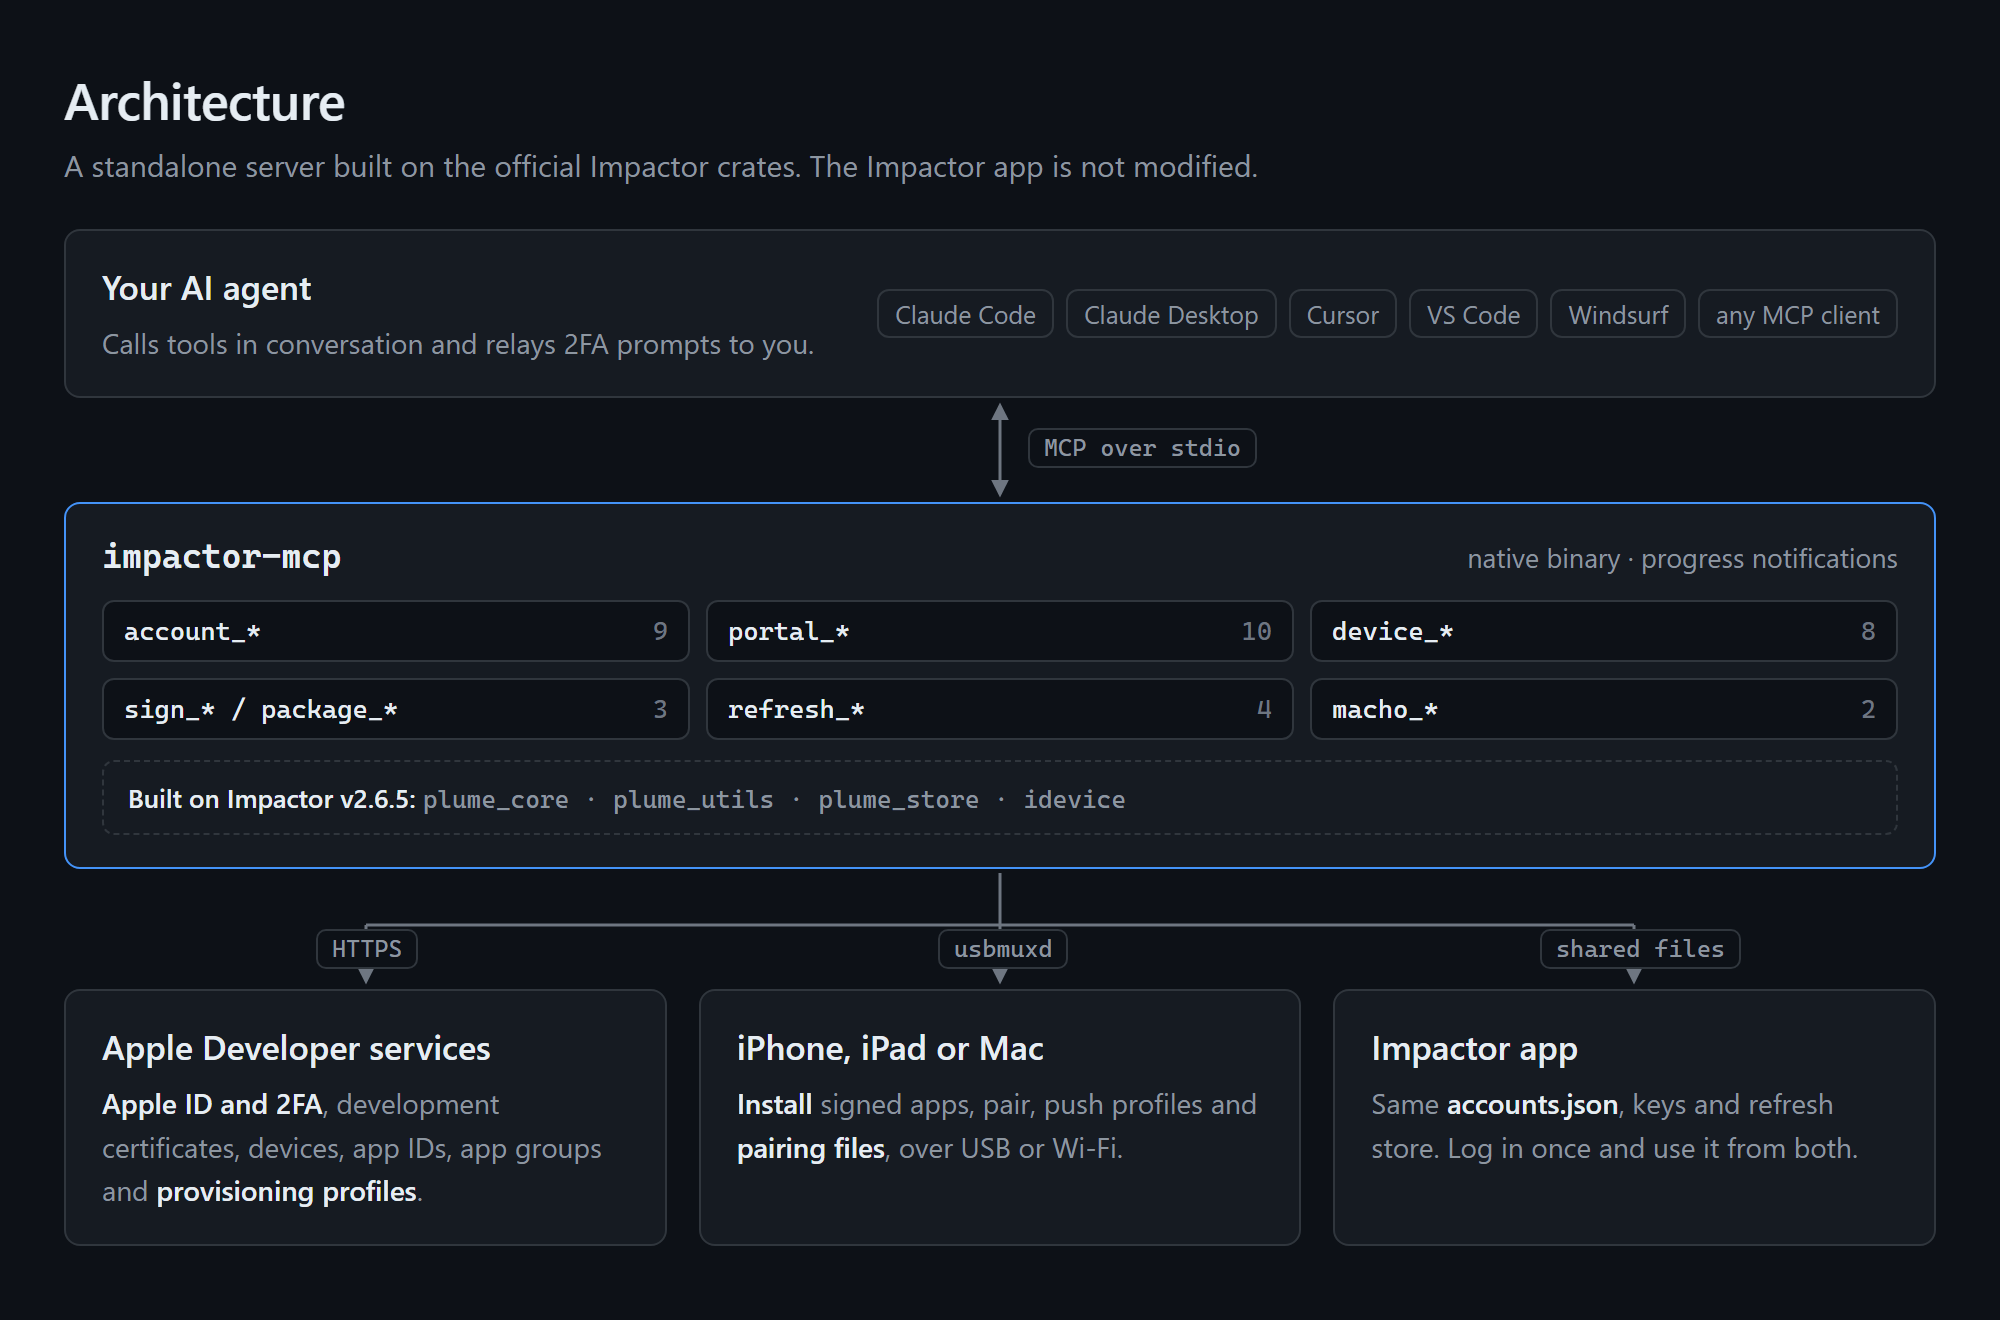
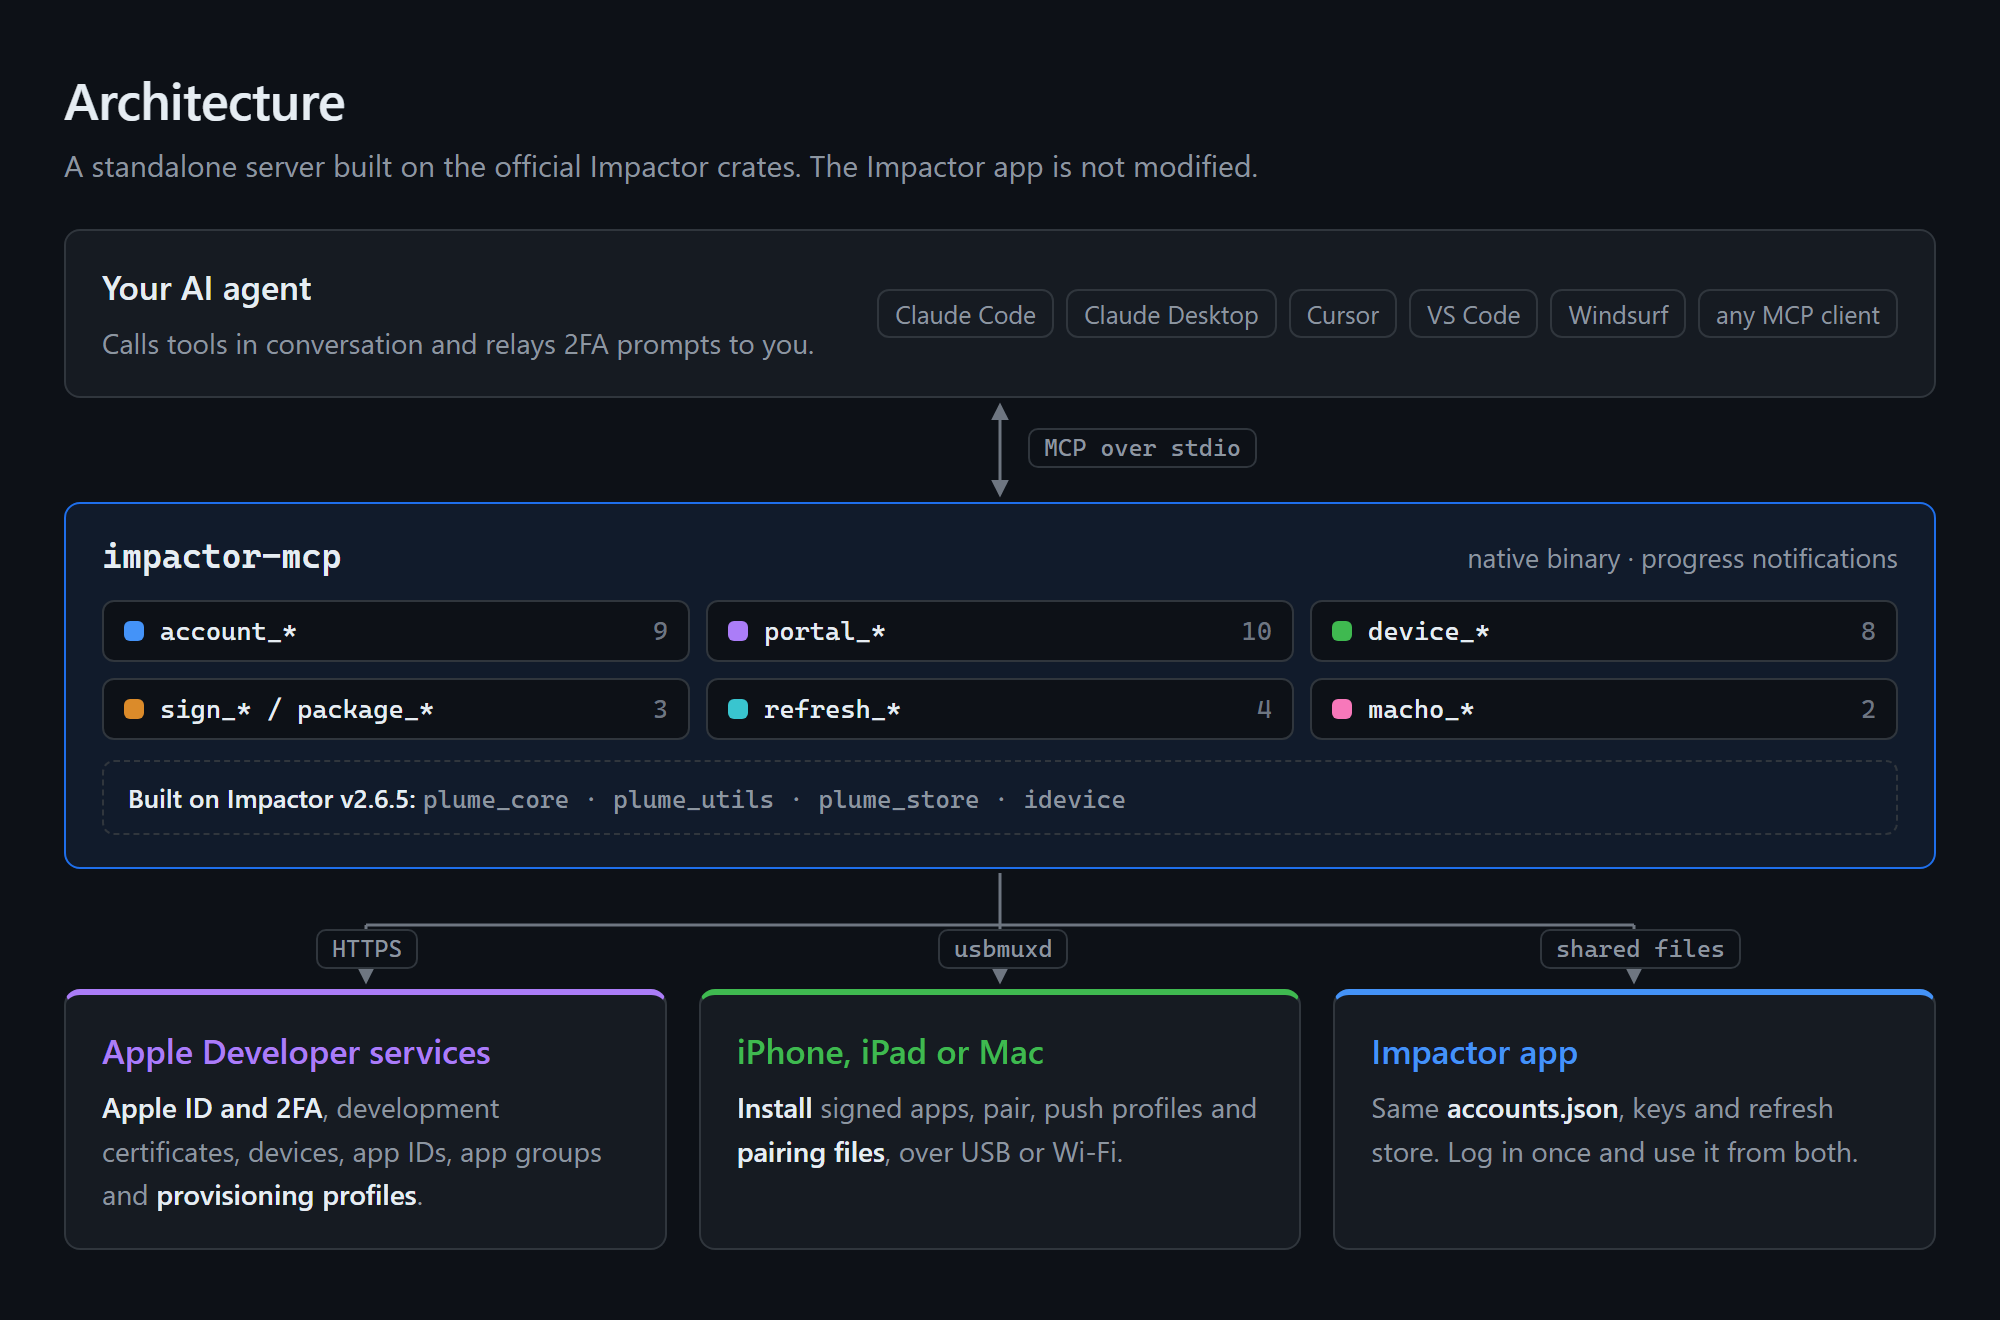
README images: macOS window chrome and per-group colors
- Hero session window gets macOS traffic lights and a centered title
- Each tool group has a flat color (Primer palette) used consistently
  across all images; no gradients

diff --git a/docs/readme/src/session.html b/docs/readme/src/session.html
@@ -13,12 +13,14 @@
   .step { padding: 14px 16px; }
   .left .step + .step { margin-top: 16px; }
   .head { display: flex; align-items: center; gap: 10px; margin-bottom: 10px; }
-  .num { width: 22px; height: 22px; border-radius: 5px; display: grid; place-items: center; font-size: 12px; border: 1px solid var(--border); color: var(--muted); font-family: var(--mono); }
+  .num { width: 22px; height: 22px; border-radius: 5px; display: grid; place-items: center; font-size: 12px; font-family: var(--mono); font-weight: 600; }
+  .head .name { color: var(--c); }
+  .card.step { border-top: 2px solid var(--c); }
   .head .name { font-family: var(--mono); font-size: 15px; }
   .head .desc { color: var(--faint); font-size: 13px; margin-left: auto; }
   pre { font-family: var(--mono); font-size: 12.5px; line-height: 1.6; color: var(--text); background: var(--inset); border: 1px solid var(--border); border-radius: 6px; padding: 10px 12px; white-space: pre; }
   .log div { font-family: var(--mono); font-size: 13px; line-height: 1.85; color: var(--text); display: flex; gap: 12px; }
-  .log .pct { color: var(--faint); width: 40px; text-align: right; }
+  .log .pct { color: #db8b2a; width: 40px; text-align: right; }
   .log .fin { color: var(--green); }
   .right .step { height: 100%; display: flex; flex-direction: column; }
   .right pre { flex: 1; }
@@ -34,24 +36,24 @@
 
   <div class="grid">
     <div class="left">
-      <div class="card step">
-        <div class="head"><div class="num">1</div><span class="name">device_list</span><span class="desc">find the device</span></div>
+      <div class="card step c-green">
+        <div class="head"><div class="num tint">1</div><span class="name">device_list</span><span class="desc">find the device</span></div>
 <pre>{ <span class="k">"count"</span>: <span class="n">1</span>, <span class="k">"devices"</span>: [{
     <span class="k">"name"</span>: <span class="s">"iPad"</span>, <span class="k">"connection"</span>: <span class="s">"usb"</span>,
     <span class="k">"udid"</span>: <span class="s">"00008xxx-xxxxxxxxxxxxxxxx"</span>,
     <span class="k">"is_mac"</span>: <span class="b">false</span> }] }</pre>
       </div>
 
-      <div class="card step">
-        <div class="head"><div class="num">2</div><span class="name">package_inspect</span><span class="desc">detect the app type</span></div>
+      <div class="card step c-orange">
+        <div class="head"><div class="num tint">2</div><span class="name">package_inspect</span><span class="desc">detect the app type</span></div>
 <pre>{ <span class="k">"name"</span>: <span class="s">"SideStore"</span>,
   <span class="k">"app_type"</span>: <span class="s">"SideStore"</span>,
   <span class="k">"bundle_identifier"</span>: <span class="s">"com.SideStore.SideStore"</span>,
   <span class="k">"supports_pairing_file"</span>: <span class="b">true</span>, ... }</pre>
       </div>
 
-      <div class="card step">
-        <div class="head"><div class="num">3</div><span class="name">sign_and_install</span><span class="desc">progress notifications</span></div>
+      <div class="card step c-orange">
+        <div class="head"><div class="num tint">3</div><span class="name">sign_and_install</span><span class="desc">progress notifications</span></div>
         <div class="log">
           <div><span class="pct">20%</span>Ensuring account is valid...</div>
           <div><span class="pct">30%</span>Ensuring device is registered...</div>
@@ -65,8 +67,8 @@
     </div>
 
     <div class="right">
-      <div class="card step">
-        <div class="head"><div class="num">4</div><span class="name">sign_and_install</span><span class="desc">result</span></div>
+      <div class="card step c-orange">
+        <div class="head"><div class="num tint">4</div><span class="name">sign_and_install</span><span class="desc">result</span></div>
 <pre>{
   <span class="k">"success"</span>: <span class="b">true</span>,
   <span class="k">"mode"</span>: <span class="s">"apple_id"</span>,

diff --git a/docs/readme/src/tools.html b/docs/readme/src/tools.html
@@ -12,10 +12,13 @@
   .grid { display: grid; grid-template-columns: 1fr 1fr; gap: 16px; }
   .cat { padding: 16px 18px; }
   .cat h3 { display: flex; align-items: center; font-size: 16px; font-weight: 600; margin-bottom: 10px; padding-bottom: 10px; border-bottom: 1px solid var(--border-soft); }
-  .cat h3 .n { margin-left: auto; color: var(--faint); font-size: 13px; font-weight: 400; }
+  .cat h3 { gap: 10px; }
+  .cat h3 .n { margin-left: auto; font-size: 12.5px; font-weight: 600; padding: 1px 8px; border-radius: 10px; }
+  .card.cat { border-top: 3px solid var(--c); }
+  li code::before { content: ""; display: inline-block; width: 4px; height: 4px; border-radius: 50%; background: var(--c); margin: 0 8px 3px 0; }
   ul { list-style: none; display: flex; flex-direction: column; gap: 6px; }
   li { display: flex; gap: 12px; align-items: baseline; font-size: 13.5px; color: var(--muted); }
-  li code { font-family: var(--mono); font-size: 13.5px; color: var(--text); flex: none; width: 232px; }
+  li code { font-family: var(--mono); font-size: 13.5px; color: var(--text); flex: none; width: 244px; }
   .note { margin-top: 10px; color: var(--muted); font-size: 13px; line-height: 1.55; }
 </style>
 </head>
@@ -30,8 +33,8 @@
   </header>
 
   <div class="grid">
-    <div class="card cat">
-      <h3>Accounts<span class="n">9</span></h3>
+    <div class="card cat c-blue">
+      <h3><span class="swatch"></span>Accounts<span class="n tint">9</span></h3>
       <ul>
         <li><code>account_login</code>Apple ID sign-in</li>
         <li><code>account_submit_2fa</code>2FA code or SMS</li>
@@ -45,8 +48,8 @@
       </ul>
     </div>
 
-    <div class="card cat">
-      <h3>Developer portal<span class="n">10</span></h3>
+    <div class="card cat c-purple">
+      <h3><span class="swatch"></span>Developer portal<span class="n tint">10</span></h3>
       <ul>
         <li><code>portal_list_certificates</code>dev certificates</li>
         <li><code>portal_revoke_certificate</code>free a slot</li>
@@ -61,8 +64,8 @@
       </ul>
     </div>
 
-    <div class="card cat">
-      <h3>Devices<span class="n">8</span></h3>
+    <div class="card cat c-green">
+      <h3><span class="swatch"></span>Devices<span class="n tint">8</span></h3>
       <ul>
         <li><code>device_list</code>USB, Wi-Fi or Mac</li>
         <li><code>device_info</code>model, iOS version</li>
@@ -75,8 +78,8 @@
       </ul>
     </div>
 
-    <div class="card cat">
-      <h3>Signing<span class="n">3</span></h3>
+    <div class="card cat c-orange">
+      <h3><span class="swatch"></span>Signing<span class="n tint">3</span></h3>
       <ul>
         <li><code>sign_and_install</code>sign, then install / export</li>
         <li><code>package_inspect</code>read an .ipa or .app</li>
@@ -85,8 +88,8 @@
       <p class="note">Apple ID, ad-hoc, PEM and no-modify modes. Tweaks (.deb, .dylib, .framework), custom name / bundle id / version / icon / entitlements, ElleKit, Liquid Glass, ProMotion, file sharing.</p>
     </div>
 
-    <div class="card cat">
-      <h3>Auto-refresh<span class="n">4</span></h3>
+    <div class="card cat c-teal">
+      <h3><span class="swatch"></span>Auto-refresh<span class="n tint">4</span></h3>
       <ul>
         <li><code>refresh_list</code>saved apps and due dates</li>
         <li><code>refresh_run_due</code>re-sign what is due</li>
@@ -96,8 +99,8 @@
       <p class="note">Free-account profiles expire after 7 days; apps are re-signed 3 days before. Optional background mode.</p>
     </div>
 
-    <div class="card cat">
-      <h3>Mach-O<span class="n">2</span></h3>
+    <div class="card cat c-pink">
+      <h3><span class="swatch"></span>Mach-O<span class="n tint">2</span></h3>
       <ul>
         <li><code>macho_info</code>dylibs, entitlements</li>
         <li><code>macho_edit</code>add / replace dylib, SDK</li>

diff --git a/docs/readme/src/hero.html b/docs/readme/src/hero.html
@@ -7,17 +7,17 @@
   body { width: 1000px; height: 640px; }
   .wrap { padding: 36px 40px; }
   .top { display: flex; align-items: center; gap: 16px; }
-  .mark { width: 52px; height: 52px; border-radius: 10px; border: 1px solid var(--border); background: var(--surface); display: grid; place-items: center; flex: none; }
+  .mark { width: 52px; height: 52px; border-radius: 12px; border: 1px solid #1f6feb; background: #0d2545; display: grid; place-items: center; flex: none; }
   .mark svg { width: 28px; height: 28px; }
   h1 { font-size: 30px; font-weight: 600; letter-spacing: -0.4px; }
   .sub { color: var(--muted); font-size: 16px; margin-top: 3px; }
   .chips { display: flex; gap: 8px; margin-top: 18px; flex-wrap: wrap; }
 
-  .card { margin-top: 24px; }
+  .window { margin-top: 24px; box-shadow: 0 18px 40px rgba(0,0,0,0.45); }
   .msgs { padding: 18px 20px 20px; display: flex; flex-direction: column; gap: 10px; }
   .role { font-size: 12px; color: var(--faint); text-transform: uppercase; letter-spacing: 0.6px; }
   .role.r { align-self: flex-end; }
-  .user { align-self: flex-end; background: #1f2937; border: 1px solid var(--border); padding: 10px 14px; border-radius: 8px; font-size: 16px; margin-top: -4px; }
+  .user { align-self: flex-end; background: #1f6feb; color: #fff; padding: 10px 15px; border-radius: 16px 16px 4px 16px; font-size: 16px; margin-top: -4px; }
   .tool { font-size: 15px; }
   .tool .ok { font-size: 14px; }
   .progress { padding: 12px 14px; border-radius: 6px; background: var(--inset); border: 1px solid var(--border); }
@@ -31,7 +31,7 @@
 <div class="wrap">
   <div class="top">
     <div class="mark">
-      <svg viewBox="0 0 24 24" fill="none" stroke="#e6edf3" stroke-width="1.8" stroke-linecap="round" stroke-linejoin="round"><rect x="6" y="2" width="12" height="20" rx="2.5"/><path d="M12 7v7m-3-3 3 3 3-3"/><path d="M10.5 18h3"/></svg>
+      <svg viewBox="0 0 24 24" fill="none" stroke="#58a6ff" stroke-width="1.8" stroke-linecap="round" stroke-linejoin="round"><rect x="6" y="2" width="12" height="20" rx="2.5"/><path d="M12 7v7m-3-3 3 3 3-3"/><path d="M10.5 18h3"/></svg>
     </div>
     <div>
       <h1>Sign and install iOS apps from your AI agent</h1>
@@ -39,15 +39,15 @@
     </div>
   </div>
 
-  <div class="card">
-    <div class="window-bar"><i></i><i></i><i></i><span>Example session</span></div>
+  <div class="window">
+    <div class="window-bar"><i></i><i></i><i></i><span>AI agent — impactor-mcp</span></div>
     <div class="msgs">
       <div class="role r">You</div>
       <div class="user">Install SideStore.ipa on my iPad and keep it refreshed.</div>
       <div class="role">Agent</div>
-      <div class="tool"><span class="ns">impactor</span> device_list <span class="ok">✓ iPad16,9 · USB</span></div>
-      <div class="tool"><span class="ns">impactor</span> package_inspect <span class="ok">✓ app type: SideStore</span></div>
-      <div class="tool"><span class="ns">impactor</span> sign_and_install <span class="ok">✓ completed</span></div>
+      <div class="tool c-green"><span class="swatch"></span><span class="ns">impactor</span> <span class="fn">device_list</span> <span class="ok">✓ iPad16,9 · USB</span></div>
+      <div class="tool c-orange"><span class="swatch"></span><span class="ns">impactor</span> <span class="fn">package_inspect</span> <span class="ok">✓ app type: SideStore</span></div>
+      <div class="tool c-orange"><span class="swatch"></span><span class="ns">impactor</span> <span class="fn">sign_and_install</span> <span class="ok">✓ completed</span></div>
       <div class="progress">
         <div class="row"><span>Finished!</span><span>100%</span></div>
         <div class="bar"><div style="width:100%"></div></div>

diff --git a/docs/readme/src/architecture.html b/docs/readme/src/architecture.html
@@ -16,18 +16,20 @@
   .agent { display: flex; align-items: center; justify-content: space-between; gap: 20px; }
   .agents { display: flex; flex-wrap: wrap; gap: 6px; justify-content: flex-end; }
   .agents span { font-size: 12.5px; padding: 3px 8px; border-radius: 6px; border: 1px solid var(--border); color: var(--muted); }
-  .mcp { border-color: var(--accent); }
+  .mcp { border-color: #1f6feb; background: #111b2b; }
   .mcp .hd { display: flex; align-items: baseline; justify-content: space-between; }
   .mcp .hd span { color: var(--muted); font-size: 13.5px; }
   .cats { display: grid; grid-template-columns: repeat(3, 1fr); gap: 8px; margin-top: 12px; }
-  .cats div { font-family: var(--mono); font-size: 13px; padding: 7px 10px; border-radius: 6px; background: var(--inset); border: 1px solid var(--border); }
-  .cats div i { font-style: normal; color: var(--faint); float: right; }
+  .cats div { display: flex; align-items: center; gap: 8px; font-family: var(--mono); font-size: 13px; padding: 7px 10px; border-radius: 6px; background: var(--inset); border: 1px solid var(--border); }
+  .cats div i { font-style: normal; color: var(--faint); margin-left: auto; }
   .crates { margin-top: 10px; padding: 9px 12px; border-radius: 6px; border: 1px dashed var(--border); font-size: 13px; color: var(--muted); }
   .crates b { color: var(--text); font-weight: 600; }
   .crates code { font-family: var(--mono); font-size: 12.5px; }
   .link { position: relative; height: 52px; }
   .link svg { position: absolute; left: -32px; top: 0; }
   .lbl { position: absolute; font-family: var(--mono); font-size: 12px; color: var(--muted); background: var(--bg); padding: 2px 7px; border-radius: 5px; border: 1px solid var(--border); }
+  .targets .card { border-top: 3px solid var(--c); }
+  .targets h3 { color: var(--c); }
   .targets { display: grid; grid-template-columns: repeat(3, 1fr); gap: 16px; }
 </style>
 </head>
@@ -57,8 +59,8 @@
   <div class="card box mcp">
     <div class="hd"><h3 class="mono">impactor-mcp</h3><span>native binary · progress notifications</span></div>
     <div class="cats">
-      <div>account_*<i>9</i></div><div>portal_*<i>10</i></div><div>device_*<i>8</i></div>
-      <div>sign_* / package_*<i>3</i></div><div>refresh_*<i>4</i></div><div>macho_*<i>2</i></div>
+      <div class="c-blue"><span class="swatch"></span>account_*<i>9</i></div><div class="c-purple"><span class="swatch"></span>portal_*<i>10</i></div><div class="c-green"><span class="swatch"></span>device_*<i>8</i></div>
+      <div class="c-orange"><span class="swatch"></span>sign_* / package_*<i>3</i></div><div class="c-teal"><span class="swatch"></span>refresh_*<i>4</i></div><div class="c-pink"><span class="swatch"></span>macho_*<i>2</i></div>
     </div>
     <div class="crates"><b>Built on Impactor v2.6.5:</b> <code>plume_core · plume_utils · plume_store · idevice</code></div>
   </div>
@@ -77,15 +79,15 @@
   </div>
 
   <div class="targets">
-    <div class="card box">
+    <div class="card box c-purple">
       <h3>Apple Developer services</h3>
       <p><b>Apple ID and 2FA</b>, development certificates, devices, app IDs, app groups and <b>provisioning profiles</b>.</p>
     </div>
-    <div class="card box">
+    <div class="card box c-green">
       <h3>iPhone, iPad or Mac</h3>
       <p><b>Install</b> signed apps, pair, push profiles and <b>pairing files</b>, over USB or Wi-Fi.</p>
     </div>
-    <div class="card box">
+    <div class="card box c-blue">
       <h3>Impactor app</h3>
       <p>Same <b>accounts.json</b>, keys and refresh store. Log in once and use it from both.</p>
     </div>

diff --git a/docs/readme/src/style.css b/docs/readme/src/style.css
@@ -49,17 +49,34 @@ body { position: relative; overflow: hidden; }
 .dot { display: none; }
 .mono { font-family: var(--mono); }
 
+/* macOS-style title bar: traffic lights on the left, centered title */
 .window-bar {
+  position: relative;
   display: flex;
   align-items: center;
   gap: 8px;
-  padding: 11px 16px;
-  border-bottom: 1px solid var(--border);
-  background: #11161d;
-  border-radius: 8px 8px 0 0;
+  height: 38px;
+  padding: 0 14px;
+  border-bottom: 1px solid #0b0e13;
+  background: #262a31;
+  border-radius: 10px 10px 0 0;
 }
-.window-bar i { width: 11px; height: 11px; border-radius: 50%; display: inline-block; background: #30363d; }
-.window-bar span { margin-left: 8px; color: var(--muted); font-size: 13px; }
+.window-bar i { width: 12px; height: 12px; border-radius: 50%; display: inline-block; box-shadow: inset 0 0 0 0.5px rgba(0, 0, 0, 0.25); }
+.window-bar i:nth-child(1) { background: #ff5f57; }
+.window-bar i:nth-child(2) { background: #febc2e; }
+.window-bar i:nth-child(3) { background: #28c840; }
+.window-bar span { position: absolute; left: 0; right: 0; text-align: center; color: #b4bac4; font-size: 13px; font-weight: 600; pointer-events: none; }
+.window { border-radius: 10px; border: 1px solid #3a3f47; background: var(--surface); overflow: hidden; }
+
+/* Group colors (GitHub Primer palette, used flat) */
+.c-blue { --c: #4493f8; }
+.c-purple { --c: #ab7df8; }
+.c-green { --c: #3fb950; }
+.c-orange { --c: #db8b2a; }
+.c-teal { --c: #39c5cf; }
+.c-pink { --c: #f778ba; }
+.swatch { width: 10px; height: 10px; border-radius: 3px; background: var(--c); display: inline-block; flex: none; }
+.tint { background: color-mix(in srgb, var(--c) 14%, transparent); border: 1px solid color-mix(in srgb, var(--c) 40%, transparent); color: var(--c); }
 
 /* Tool call row used in chat transcripts */
 .tool {
@@ -77,6 +94,7 @@ body { position: relative; overflow: hidden; }
 .tool .ok { margin-left: auto; color: var(--muted); font-family: var(--sans); font-size: 13px; }
 .tool .ok::first-letter { color: var(--green); }
 .tool .ns { color: var(--faint); }
+.tool .fn { color: var(--c, var(--text)); }
 
 .bar { height: 4px; border-radius: 2px; background: var(--border-soft); overflow: hidden; }
 .bar > div { height: 100%; background: var(--accent); }
